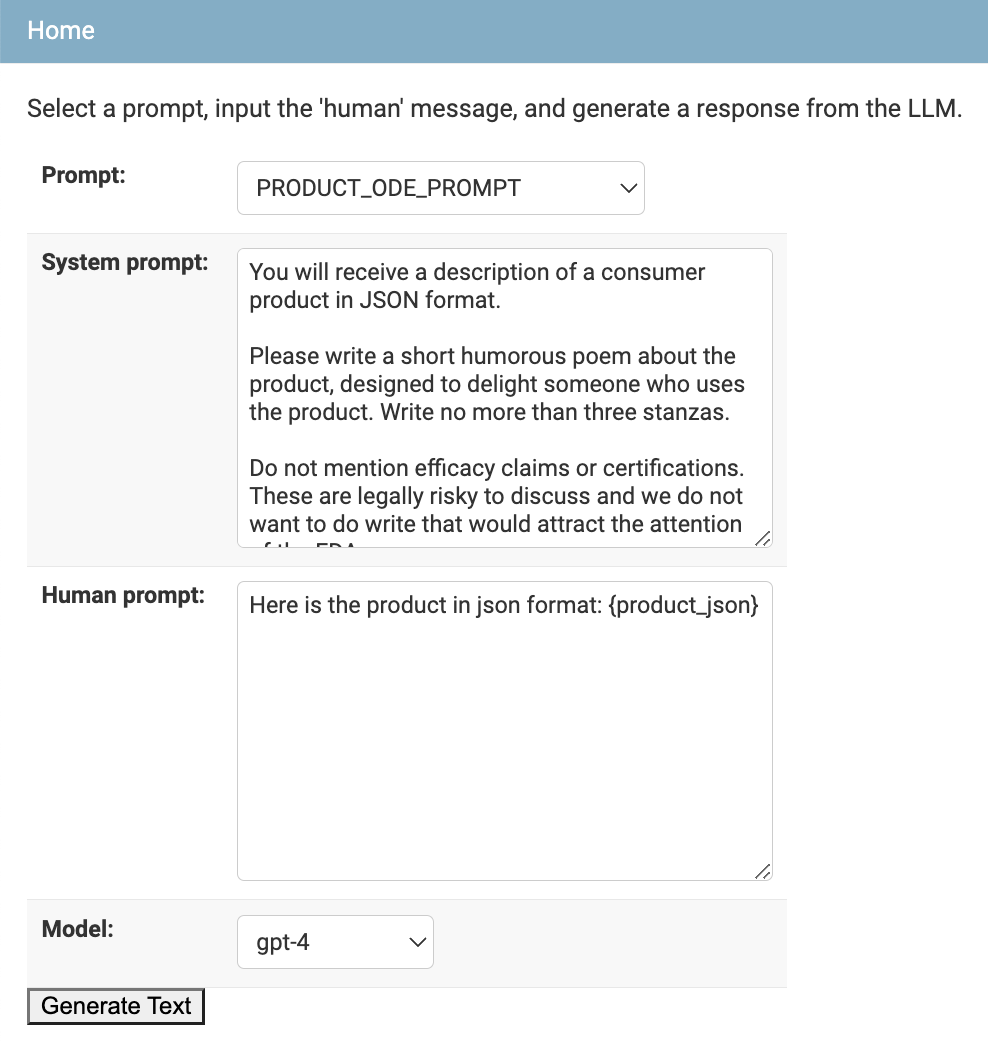
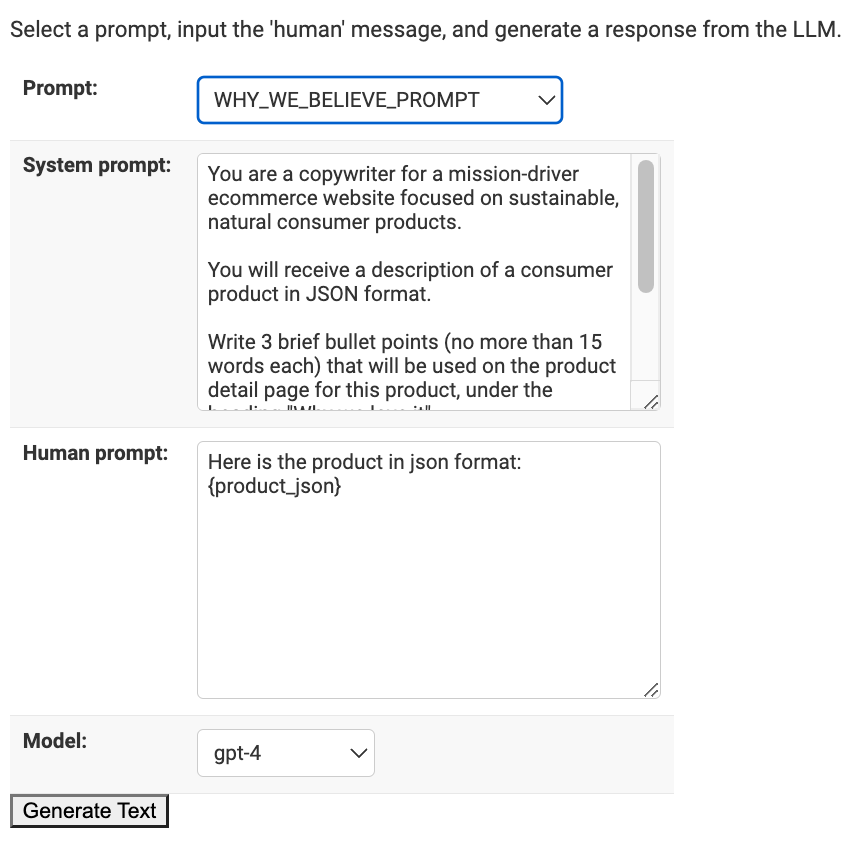
llm powered admin fields

diff --git a/content/llm-powered-django-admin-fields.md b/content/llm-powered-django-admin-fields.md
@@ -1,66 +1,38 @@
 Title: LLM-Powered Django Admin Fields
-Date: 2024-06-10
+Date: 2024-04-14
 Author: Chris Clark
 Slug: llm-chatgpt-powered-django-admin-fields
-Status: Draft
+Status: Published
 
+*Note*: All relevant code can be found in the corresponding [Github repo](https://github.com/chrisclark/django-llm-fields).
 
-## Short version:
+I work at Grove -- and ecommerce company that sells thousands of different products. We use Django and the Django admin as our product information system to manage, among other things, all of the copy on our Product Detail Pages (PDPs). In order to more efficiently and consistently write copy for different PDP sections, we integrated ChatGPT directly into the Django Admin.
 
-We put little buttons next to a bunch of text fields in the Django admin site that allows administrators to generate copy using chatGPT. We also wrapped the underlying prompts in the Django admin so the prompts themselves are editable by e.g. our copy team, who can tweak them, test them, get the best possible results. It's not encapsulated enough to be releasable as a standalone Django app, but much of the code can be re-used if you'd like to do it yourself. Code, and discussion of learnings, is below.
+While not *quite* encapsulated enough to make it standalone Django plugin, the code is generic enough to quickly integrate ChatGPT with any Django text field, and provides a number of affordances to Django admin users to modify and test the underlying prompts.
 
-## Long version:
+## What we did
 
-Here are the major constraints in using GPT4 for consumer companies, as I've come to understand them over the past few months:
+In short, we now have little buttons next to Django Admin text fields that will generate copy according to a specific prompt and data payload. For example, we have a section on our PDPs titled "Why we believe in this product". That's an attribute on the Product model called `why_we_believe`. In the Django Admin, when viewing a Product model, there is a button that our merchandising team can use to populate the field. The text is editable and reviewable; ChatGPT provides initial copy, but humans are still very much in the loop.
 
-1. *Trust.* Prompt injection is unsolved, and they have a loose relationship with the truth. So I don't trust them to e.g. answer customer service questions -- but as a tool to comprehend and compose written language, GPT4 is very nearly faultless. It is a terrific copywriter.
-2. *Expense.* If you need to call ChatGPT N times, and N="customers on your website", you can't afford it. At Grove, N can be "products in our catalog" or "outbound marketing campaigns", but it can't be any use case that requires writing different copy for each customer. It's too expensive (unless, I suppose, you have a really short prompt).
-3. *Speed.* They are too slow to use in-band when e.g. rendering a webpage. I can't block a page from rendering while GPT4 streams output for 30 seconds. LLM-generated content must be created asynchronously, in advance.
+![llm-django-field]({static}/images/gpt-django-textarea.png)
 
-Given these constraints,
+Each "LLM-enabled" text field is maped to a specific prompt, and a data payload that provides the model-specific context to ChatGPT.
 
-We at Grove had explored a few different copywriting use cases for personalization -- but the tech is still somewhat limited for consumer-facing applications. It's slow (dynamically generating anything on a web page blocks for an unacceptable amount of time) and it's expensive (generating unqiue content per-person gets pricey in a hurry). As we understood the constraints better, one of our first 'production' use cases was to re-write a particular field on our product detail pages in a 'house style'. Over the years, inconsistencies had crept into bits of copy across a few thousand different product pages. Initially, we wrote a simple script in a Jupyter notebook to generate consistent copy for the problematic field for each product, and bulk-updated the database. Easy enough. It looked something like this (the bulk-update was done separately):
-
-    :::python
-    import json, os, requests, openai
-
-    openai.api_key = os.environ.get('OPENAI_API_KEY')
-
-    # Note that the actual prompt was more complex, but you get the idea.
-    prompt = """You will receive a description of a consumer product.
-        Please write two sentences that will appear on an ecommerce website
-        under the heading "Why we believe in this product".
-
-        Write in the first-person plural, and be compelling but not overly verbose.
-        """
-
-    # internal API that can get all of our product data as a json blob
-    products = requests.get(product_api_url).json()
-
-    def gen_text(p):
-        messages= [
-            {"role": "system", "content": prompt},
-            {"role": "user", "content": f'Here is the product in JSON format: {p}'}
-        ]
-
-        resp = openai.ChatCompletion.create(
-            model="gpt-4",
-            messages=messages
-        )
-        return resp['choices'][0]['message']['content']
-
-    results = [{"pid": p['id'], "copy": gen_text(p)} for p in products]
-
-    with open("output.json", "w") as file:
-        json.dump(results, file)
-
-And -- good news! Our merchants were quite excited about this. They wanted to do it in other places, with different prompts and different bits of context. The logical next step was to start building this into the software directly. We're a Django shop, and wound up with the following.
-
-## Store Prompts in Django
-
-First up, a simple model to allow admin users to create and edit prompts.
+We also have prompts and buttons for fields like "review summary" (summarizes the pros and cons of a product based on customer reviews), "hero ingredients", and "packaging description". The underlying prompts are editable in the admin as well so users can tweak the copy that ChatGPT is generating without getting in touch with engineering:
 
 ![llm-django-prompts]({static}/images/gpt-django-prompts.png)
+
+And a playground area allows admin users to test the prompts out without leaving Django.
+
+![llm-django-prompt-playground]({static}/images/gpt-django-playground.png)
+
+This basic framework allows us to quickly add GPT-powered copywriting to any text field, on any model, in the Django Admin. The relevant code is available in a [Github repo](https://github.com/chrisclark/django-llm-fields), with some instructions on how to get started. The balance of this post simply explicates the code and patterns.
+
+## How it works
+
+Note that some of the code below is slightly simplified from what's in the repo in order to aid comprehension.
+
+First up, a simple model to store and manage the prompts that will power each text field:
 
 ```python
 
@@ -87,17 +59,61 @@ class GPTPrompt(CoreModel):
 
 ```
 
-There is a bit of magic to the "key" value, which maps to a hard-coded value on a class that knows to how to inject the proper contextual data for a given prompt.
+After registering the model in the Django admin, the prompts are now editable.
+
+![llm-django-prompt-admin]({static}/images/gpt-django-prompt-admin.png)
+
+There is a bit of magic to the "key" value, which maps to a hard-coded value on a class that knows to how to inject the proper contextual data for a given prompt. For example, the prompt in the screenshot above needs to know how to get `product_json`. So we write a little class that can provide that data (one class for each prompt):
+
+```python
+
+class BelievePromptData(object):
+    PROMPT_KEY = "WHY_WE_BELIEVE_PROMPT"
+
+    def __init__(self, model_id):
+        self.product = Product.objects.get(pk=model_id)
+
+    def __call__(self):
+        keys = ["name", "selling_points", "manufacturer_description", "ingredients"]
+        return {"product_json": json.dumps({k: str(getattr(self.product, k)) for k in keys})}
+
+```
+
+A single Django view will handle all of the client-side text-generation requests coming from the admin buttons:
+
+```python
+
+def generic_llm_prompt_view(request, promptDataCls=None):
+    prompt = GPTPrompt.objects.get(key=promptDataCls.PROMPT_KEY)
+    prompt.prompt_data = promptDataCls(request.GET.get("model_id"))
+    return HttpResponse(json.dumps({"text": prompt.get_text()}), content_type="application/json")
+```
+
+The correct PromptData class is injected when registering the URLs:
+
+```python
+
+from functools import partial
+
+urlpatterns += [
+    re_path(r"^generate-believe-text/", partial(generic_llm_prompt_view, promptDataCls=BelievePromptData), name="generate-believe-text"),
+]
+```
+
+Note in the [repo](https://github.com/chrisclark/django-llm-fields), there are also URLs registered for the playground.
+
+To recap:
+1. A request comes in to e.g. `generate-believe-text/?model_id=123`
+2. The generic `llm_prompt_view` passes the model_id into the PromptData object specified in the URL endpoint (in this case `BelievePromptData`)
+3. `BelievePromptData` gets the relevant model and turns it into the JSON blob that we want to inject into our prompt. The key of the PromptData class maps to the correct GPTPrompt object.
+4. The GPTPrompt gets loaded, merges in the JSON blob, and calls out to ChatGPT to generate the text.
+
+This pattern makes it really easy to add more prompts; an admin user can create a new prompt (and test it out in the playground), and an engineer adds a corresponding PromptData class and new URL.
 
 
+## Hooking up the Django Admin UI
 
-
-
-## Ability to generate text for admin fields
-
-![llm-django-field]({static}/images/gpt-django-textarea.png)
-
-Torturing the Django admin is never particularly fun, but I eventually developed a widget that I could stick next to arbitrary model text fields, and map to different endpoints, corresponding with different ChatGPT prompts. The Widget is simple:
+Lastly, we have to add the actual button next to the relevant field. Torturing the Django admin is never particularly fun, so we created a widget you can stick next to arbitrary model text fields, and map to the different URLs, corresponding to the various PromptData classes. The Widget is simple:
 
 ```python
 class LLMTextAreaWidget(Textarea):
@@ -114,24 +130,21 @@ class LLMTextAreaWidget(Textarea):
         return context
 ```
 
-But the corresponding JavaScript is kind of a mess -- but functional. For the sake of brevity, you can find the HTML template (and the JS) [here](https://gist.github.com/chrisclark/902686040fc28481baba69129650a02a).
+The corresponding JavaScript is kind of a mess -- but functional. The HTML and JS for the widget can be found in the complete repo.
 
-Under the covers there is a
+Then simply add the widget to the admin form. E.g.
 
-
-The views are nothing special:
 
 ```python
-def believe_text(request):
-    resp_text = BelieveLLM(request.GET.get("model_id")).get_text()
-    return HttpResponse(json.dumps({"text": resp_text}),
-                        content_type="application/json")
+
+class ProductForm(forms.ModelForm):
+
+    class Meta:
+        model = Product
+        fields = "__all__"
+        widgets = {
+            "why_we_believe": LLMTextAreaWidget(req_url="/llm/generate-believe-text/"),
+        }
 ```
 
-Simply calling off to a class (in this case BelieveLLM) that builds
-
-
-
-
-
-![llm-django-prompts]({static}/images/gpt-django-playground.png)
+And voila! Our merchandisers can click the button to generate text and prepopulate the field. This fields remain a 'normal' text field; it's still overrideable by the admin user. Merchants often use the buttons to get started, and then tweak the copy from there.
